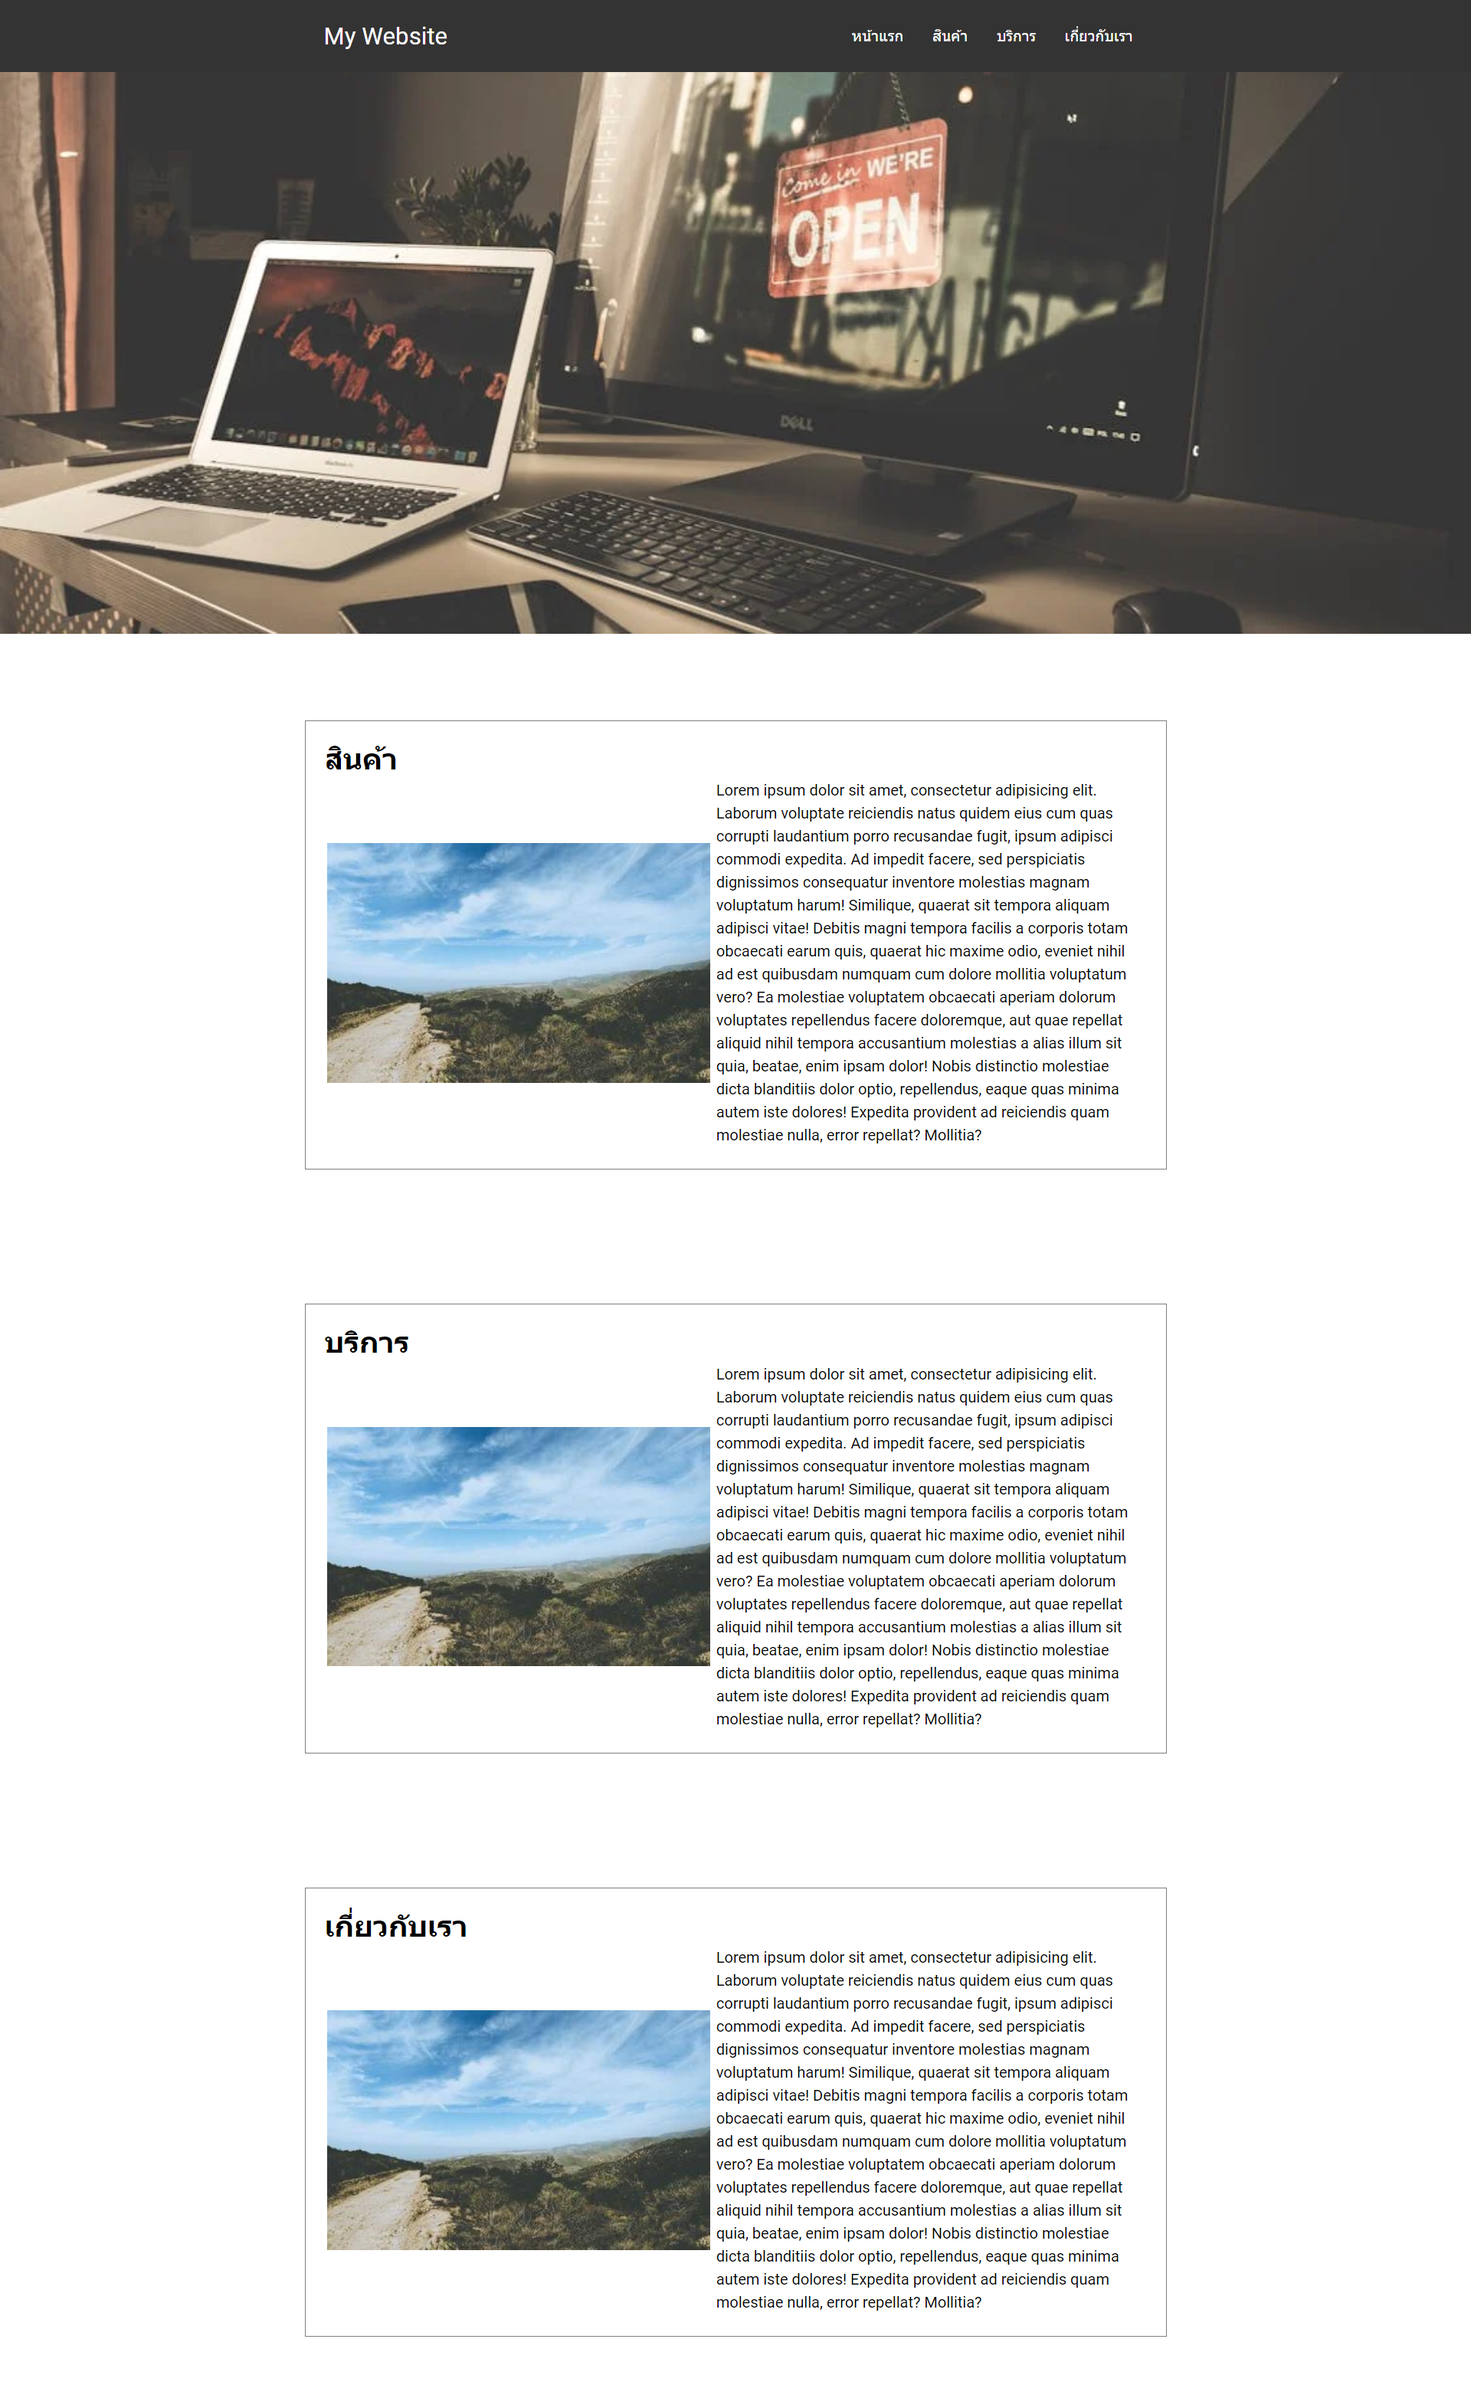
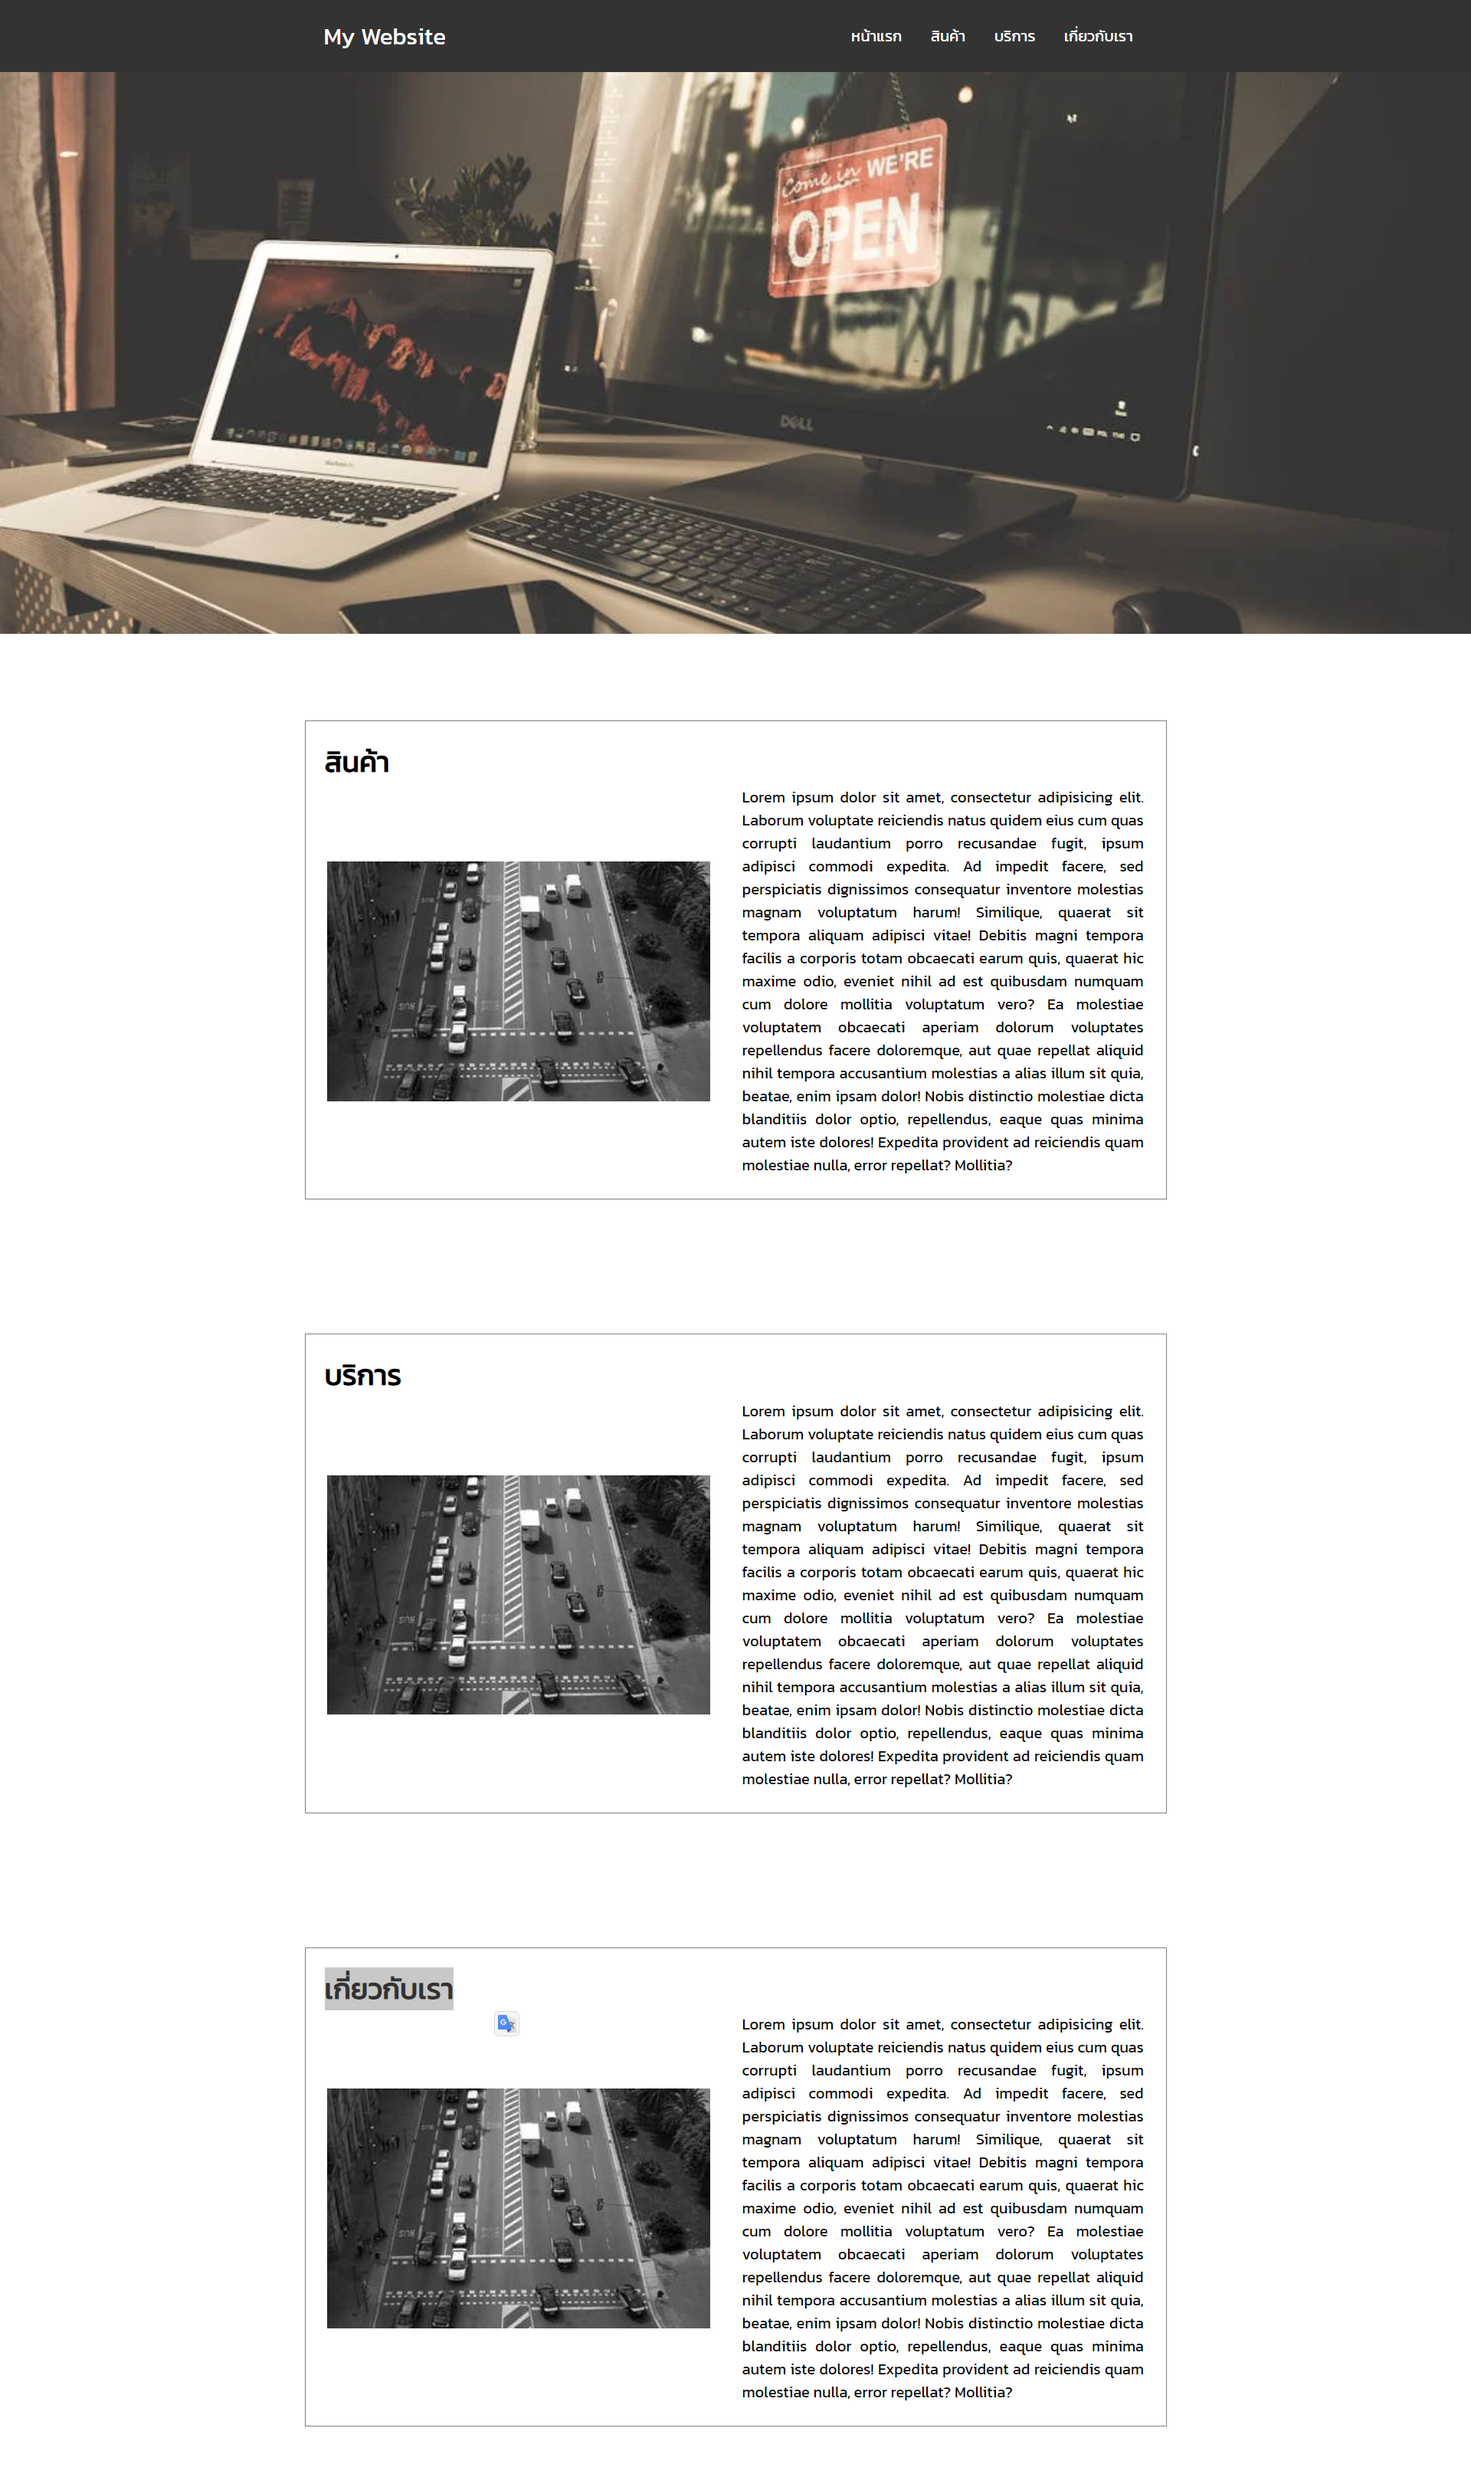
update font

diff --git a/style.css b/style.css
@@ -1,4 +1,4 @@
-@import url('https://fonts.googleapis.com/css2?family=Roboto&display=swap');
+@import url('https://fonts.googleapis.com/css2?family=Kanit&family=Roboto&display=swap');
 
 *{
     margin: 0;
@@ -9,7 +9,7 @@
 html{
     font-size: 10px;
     scroll-behavior: smooth;
-    font-family: "Roboto", sans-serif;
+    font-family: "Kanit", "Roboto", sans-serif;
 }
 
 p{
@@ -65,7 +65,7 @@ li a{
 }
 
 section{
-    padding: 5rem 0;
+    padding: 5rem ;
 }
 
 .box{
@@ -85,6 +85,11 @@ h2{
 }
 .flex > *{
     margin: 3px;
+}
+
+.flex p{
+    text-align: justify;
+    margin-left: 30px;
 }
 
 section.header{
